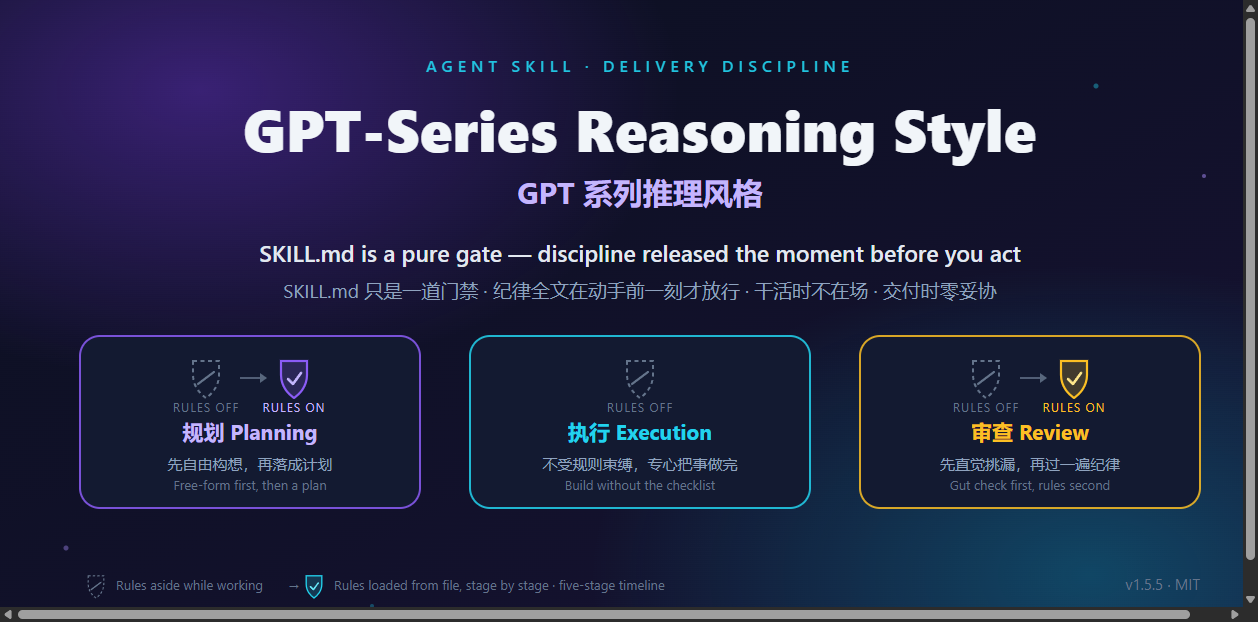
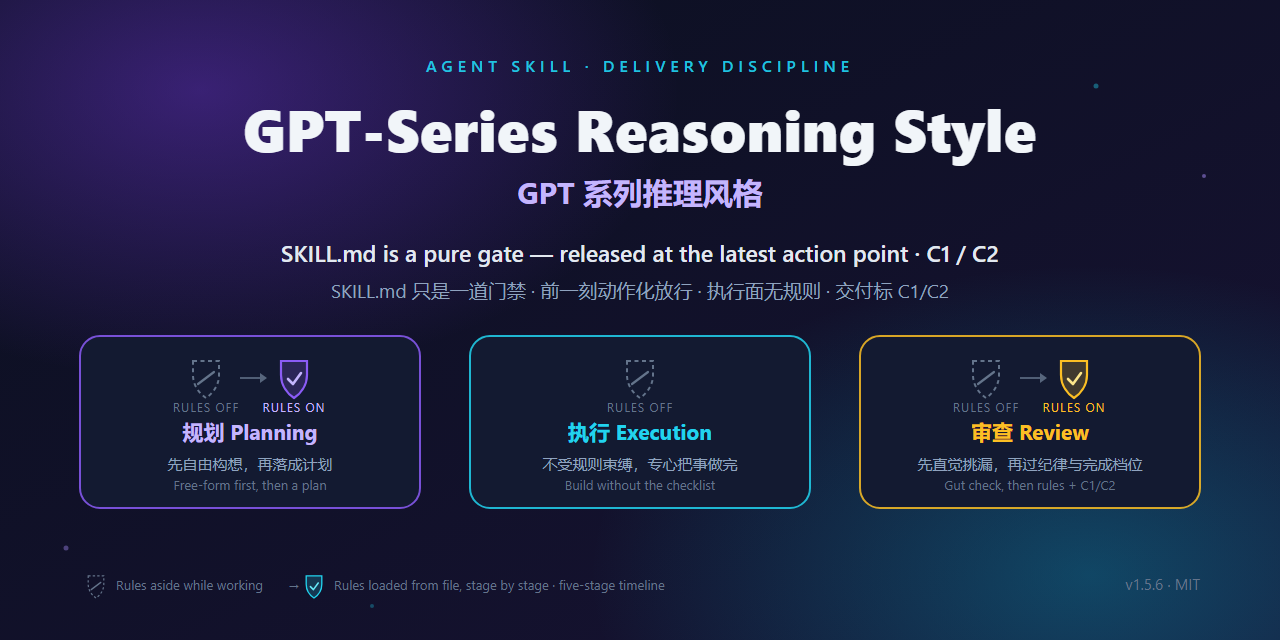
feat(v1.5.6): R123瘦三刀——门禁前一刻动作化+创意构想例外；DISCIPLINE阶段1禁读rules/阶段3双出口/完成档位C1C2；plan-rules A档不锁质量上限+创意打磨预算；review-rules第9条；selfcheck 38项；README/REFERENCE/social-preview同步1.5.6

diff --git a/scripts/selfcheck.py b/scripts/selfcheck.py
@@ -68,6 +68,9 @@ def main():
         check("SKILL.md 是纯门禁（引用 DISCIPLINE.md）", "DISCIPLINE.md" in text)
         check("门禁含前一刻语义", "前一刻" in text)
         check("门禁无流程内容泄漏（不含五阶段字样）", "五阶段" not in text)
+        check("门禁含动作化最晚点", "产线命令" in text or "施工级方案" in text)
+        check("门禁含创意构想例外", "方向构想" in text)
+        check("门禁禁提前读规则文件", "plan-rules" in text)
 
         # 4. 代码块配对
         fence_count = len(re.findall(r"^```", text, re.MULTILINE))
@@ -83,6 +86,9 @@ def main():
         check("DISCIPLINE 阶段2 指向 plan-rules.md", "plan-rules.md" in dtext)
         check("DISCIPLINE 阶段5 指向 review-rules.md", "review-rules.md" in dtext)
         check("DISCIPLINE 任务后遗忘规则", "彻底忘记" in dtext)
+        check("DISCIPLINE 含完成档位 C1/C2", "C1" in dtext and "C2" in dtext)
+        check("DISCIPLINE 阶段1 禁读规则", "不读" in dtext and "plan-rules" in dtext)
+        check("DISCIPLINE 阶段3 双出口", "完整路径" in dtext)
     else:
         check("DISCIPLINE 内容可读", False, "DISCIPLINE.md 不存在")
 
@@ -92,6 +98,14 @@ def main():
         for kw in ("真打开看一眼", "未验证标注", "交付声明对得上", "失败两次换路",
                    "全绿不算证据", "关键数字重算", "临时物隔离", "防死循环"):
             check(f"纪律：{kw}", kw in rtext)
+        check("review-rules 含第9条完成档位", "完成档位如实" in rtext)
+        check("review-rules C2 不可自封", "不得标 C2" in rtext or "禁止" in rtext and "C2" in rtext)
+
+    PLAN_MD = REPO_ROOT / "references" / "plan-rules.md"
+    if PLAN_MD.exists():
+        ptext = PLAN_MD.read_text(encoding="utf-8")
+        check("plan-rules A档不锁质量上限", "不锁定质量上限" in ptext)
+        check("plan-rules 创意质量预算", "质量预算" in ptext or "打磨" in ptext)
     else:
         check("纪律文件可读", False, "review-rules.md 不存在")
 

diff --git a/references/plan-rules.md b/references/plan-rules.md
@@ -9,13 +9,19 @@
   - 形态三·多智能体：命中任一就先跟用户确认——用户指名要多Agent、让另一个AI干、任务大到要分工、要不同模型各展所长。用户同意了再开，不同意就自己干。细则见 `references/multi-agent.md`。
   - 轻量档：只做方案不派发时，不建 `docs/` 治理文件、不写任务包。
 - **小且可逆的任务，指令即授权**，直接做、别请示——不用例行调研、不用确认档位。判定标准：①改的是**现有的**东西、单点修改，错了删掉即可；②交付结果不需要用户审美判定。**从零新建任何完整交付物**（页面/应用/游戏/网站/长报告）不算"小"——至少走A档确认；**好不好要用户说了算的创意交付物**（游戏/UI/视觉风格）不算"可逆"——先确认方向再动手。只有不可逆、对外发布、删东西才事前确认。
-- **按风险分级**：轻任务只做审查3条（真打开/未验证/防死循环）；数据/代码/**文档研究**/多Agent类重任务做全8条。
+- **按风险分级**：轻任务只做审查3条（真打开/未验证/防死循环）+ 第9条完成档位；数据/代码/**文档研究**/多Agent类重任务做全8条+第9条。
 - **动手前先调研**：任务里出现**你不认识的概念、名字或技术**（没听过的 IP、角色、术语、库名）——先问用户或搜索确认（自创/私有概念搜索查不到，直接问）——对陌生专名，搜索确认不足以替代用户确认（搜索证明世上有个梗，不等于你指的就是它），不要按想象编造设定。**确认自己理解了任务（陌生名字/概念）不属于请示——不理解就动手才是真正的错误。** 重任务另花**至多5分钟、3次搜索**查网上怎么做、有没有坑、有没有最佳实践——超了就带着已有信息继续，除非你不确定自己是否能带着已有信息做出完整判断。熟路直接做。
 - **最后确认档位**：跟用户确认方案时，**默认A档**（一次性把推荐方案列出来）。如果用户觉得方案太复杂、需要逐项讨论，他自然会说"我一个一个问你"——不需要你专门问"你要A还是B"。
   - A档（一次性确认）：推荐方案一次性列出来，用户同意就开干。
+    - **A档只锁定：做什么 / 不做什么 / 形态 / 硬约束 / 落盘路径。不锁定质量上限。**
+    - **确认后向上打磨**（手感、视觉、内容加深）**不必重新A档**；只有砍已确认范围、改方向/品类才回来确认。
   - B档（逐项问答）：用户主动要求时才用——一次只问一个最高影响问题，每题给2-3个实质方案+推荐+自由出口。
   - **询问类话语 ≠ 变更指令（通用判据）**：用户问“你一个人能完成吗？”“这样做行不行？”——先**回答能力与判断**，**不改变已确认的方案与形态**；回答附一句出口（“如果你希望我直接单人完成，说一声即可”）。只有用户**明确说改**（“改单人”“方案调整”），才变更已确认事项。
   - **确认必须走选项卡片**：从零新建交付物与重任务的方案确认，用结构化选项一次问完（方案 + 配置），**不许用文字问“这样可以吗”**——文字问的，用户的回复无法留证，不算确认。小且可逆的任务不受此限（指令即授权，直接做）。
+  - **创意交付物质量预算**（好不好要用户说了算的游戏/UI/视觉才适用）：
+    - 方向确认后默认预算：**最多 2 轮打磨，或只修「试玩/查看时当场暴露的最弱 1 项」**；禁止借打磨新开系统/玩法，除非用户新指令。
+    - 预算用完仍要抬档 → **用选项卡再问一次**（拉满 / 就此交付 / 你定），禁止无限自加料。
+    - 数据/代码/文档/修 bug/问答：**不适用**本条，不进打磨预算。
 
 ## 退出条件
 
@@ -23,4 +29,5 @@
 - 方案已经跟用户确认过了（A档用户同意了，或B档问答完了）。
 - 风险等级已经判断了（轻任务还是重任务）。
 - **形态已经裁定了（一行留痕在案：`形态裁定：形态一/二/三…`）**。
+- **质量预算已写明（若属创意交付物）**：一行 `质量预算：≤2轮 / 只修最弱1项 / 或待用户C2`；非创意类可不写。
 - 不需要再问用户任何问题了。

diff --git a/DISCIPLINE.md b/DISCIPLINE.md
@@ -6,11 +6,19 @@
 
 | 阶段 | 名称 | 做什么 | 退出条件 |
 |------|------|--------|----------|
-| 1 | 自由构想 | 不需要使用该skill | 在动手或回答之前退出该阶段 |
+| 1 | 自由构想 | **不读** `plan-rules` / `review-rules` / `multi-agent`，不建 `docs/` 治理文件，不把实现类 skill 的「先规划再建」当指令执行。只构想要做什么。 | 构想要点已列出，即将进入规划或实现之前退出。 |
 | 2 | 规则规划 | **去读 `references/plan-rules.md`**，按里面的规则做规划。 | 见 plan-rules.md 内的退出条件。 |
-| 3 | 执行 | 凭你的能力去做。 | 你觉得可以了，没有正在调试的bug或问题。 |
+| 3 | 执行 | 凭你的能力去做。 | ①没有正在调试的bug或问题；②创意/视觉类已做出**可真实打开/试玩的完整路径**（不是半截系统）。非创意类只需①。 |
 | 4 | 直觉检查 | 不需要使用该skill。发现疑点当场确认或修掉，不带进阶段5。 | 没有再发现新的疑点。 |
-| 5 | 纪律检查 | **去读 `references/review-rules.md`**，严格过一遍。 | 见 review-rules.md 内的退出条件。 |
+| 5 | 纪律检查 | **去读 `references/review-rules.md`**，严格过一遍。 | 见 review-rules.md 内的退出条件（含第9条完成档位）。 |
+
+## 完成档位（C1 / C2）
+
+- **C1 可验收**：阶段5诚信审查通过。交付文案必须标 `完成档位：C1`，并写清**产品档是否拉满**（未拉满时一句差在哪）。
+- **C2 产品满意**：仅创意/视觉类。只能来自**用户确认**（选项卡/明确说「行了」）或**外部 scorecard 达标**。**禁止 Agent 单方面宣布 C2**。
+- **测试全绿 + 证据齐 只支持 C1，单独不能升 C2。**
+- 形态二/三：**子任务默认 C1**；C2 只由主 Agent 对**最终交付物**向用户索取。
+- 本 skill 保证**交付真实**；**不单独定义**创意质量的「满意标准」。阶段5通过 ≠ 产品做好了。
 
 ## 任务结束后
 
@@ -20,4 +28,4 @@
 只改完成任务必须改的地方；发现会让交付物坏着交的问题顺手修掉，其余不碰。
 
 ## 加载
-本文件由 SKILL.md 的门禁在动手/回答的前一刻引导读取，读取后按本文件执行。阶段2才读 plan-rules.md，阶段5才读 review-rules.md。**形态三场景**：先按 multi-agent 六步建治理体系（docs/ai-members/ + docs/plans/ + 台账），再按阶段 2 推进。多智能体场景另读 multi-agent.md。
+本文件由 SKILL.md 的门禁在动手/回答的前一刻引导读取，读取后按本文件执行。阶段2才读 plan-rules.md，阶段5才读 review-rules.md。**形态三场景**：先按 multi-agent 六步建治理体系（docs/ai-members/ + docs/plans/ + 台账），再按阶段 2 推进。多智能体场景另读 multi-agent.md。实现类 skill 的代码/美术方法可在构想阶段参考，**其流程在 DISCIPLINE 被读取前不得当指令执行**。

diff --git a/AGENTS.md b/AGENTS.md
@@ -8,7 +8,7 @@ Runtimes that recognize `AGENTS.md` initialize as follows:
 
 1. 读取 `SKILL.md` 与 `VERSION`——**加载证明只需要这两个文件**。注意 `SKILL.md` 是一道**纯门禁**，本身不含纪律。
    Read `SKILL.md` and `VERSION` — **the loading proof requires only these two files**. Note `SKILL.md` is a **pure gate** and contains no discipline itself.
-2. 按门禁要求：**在你即将动手做事或回答用户的前一刻**，才读取 `DISCIPLINE.md`（五阶段流程全文在此文件，**不在** `SKILL.md`）；在那之前不要提前读取它。随后按 `DISCIPLINE.md` 的五阶段执行——规则文件**按阶段**读取：阶段2 读
+2. 按门禁要求：**在你即将动手做事或回答用户的前一刻**（写交付物 / 施工确认 / 产线命令 / 宣布交付，取最早），才读取 `DISCIPLINE.md`（五阶段流程全文在此文件，**不在** `SKILL.md`）；在那之前不要提前读取它。创意类可有一轮不读 DISCIPLINE 的方向构想；陌生专名仍先问/搜。随后按 `DISCIPLINE.md` 的五阶段执行——规则文件**按阶段**读取：阶段2 读
    `references/plan-rules.md`，阶段5 读 `references/review-rules.md`；叠加形态二三
    （子智能体 / 多智能体）时读 `references/multi-agent.md` 与 `templates/` 模板。
    Per the gate: only **the moment before you act or answer**, read `DISCIPLINE.md` (the five-stage flow lives here, **not** in `SKILL.md`); do not read it early. Then follow its five stages — rule files load **by stage**: read
@@ -18,7 +18,8 @@ Runtimes that recognize `AGENTS.md` initialize as follows:
 3. 被要求证明已加载时：输出版本号；说明**五阶段时序**（阶段1 自由构想 → 阶段2 规则规划 →
    阶段3 执行 → 阶段4 直觉检查 → 阶段5 纪律检查）；
    逐字引用纪律第 1 条「真打开看一眼：产物在真实环境打开、真用一遍，不许只看代码或心算就宣布完成。」；
-   说明协作形态（默认形态一；形态二有明显增益就自觉开；形态三命中后先与用户确认）；列出实际读过的文件。
+   说明协作形态（默认形态一；形态二有明显增益就自觉开；形态三命中后先与用户确认）；
+   提及完成档位（C1 可验收 / C2 产品满意，C2 须用户或外部认定）；列出实际读过的文件。
    When asked to prove loading: state the version; describe the five-stage sequence (stage-1 free ideation →
    stage-2 ruled planning → stage-3 execution → stage-4 intuition check → stage-5 discipline check); quote
    rule 1 verbatim ("真打开看一眼：产物在真实环境打开、真用一遍，不许只看代码或心算就宣布完成。"); state the

diff --git a/SKILL.md b/SKILL.md
@@ -1,7 +1,7 @@
 ---
 name: gpt-series-reasoning-style
-version: 1.5.5
-description: 交付验收与多智能体协作纪律。Use when 涉及数字验算、代码交付、多Agent协作、需要防假完成的任务；or when user says "做完了帮我查/看看对不对/验收"、派发子任务或多个AI分工。小改/一句话问答不加载。
+version: 1.5.6
+description: 交付验收与多智能体协作纪律（防假完成）。Use when 涉及数字验算、代码交付、多Agent协作、需要防假完成的任务；or when user says "做完了帮我查/看看对不对/验收"、派发子任务或多个AI分工。约束交付是否真实，不单独设定创意质量满意标准（见 DISCIPLINE 完成档位 C1/C2）。小改/一句话问答不加载。
 license: MIT
 compatibility: "Works with any model or client supporting the Agent Skills SKILL.md convention (Claude Code, Codex, Cursor, etc.)."
 metadata:
@@ -10,7 +10,11 @@ metadata:
 
 # 强制门禁
 
-本文件不含交付纪律。**纪律全文在 `DISCIPLINE.md`**——它只能在**你即将动手做事或回答用户的前一刻**被读取：
+本文件不含交付纪律。**纪律全文在 `DISCIPLINE.md`**——它只能在**你即将动手做事或回答用户的前一刻**被读取。
 
-- 在那之前，**禁止读取** `DISCIPLINE.md`，禁止凭记忆引用它的任何内容，禁止提前预览任何流程。
+**「前一刻」= 下列动作里最早发生的那个之前**：①创建/修改交付物相关文件（含脚手架）；②输出施工级方案并要用户确认；③跑构建/测试等产线命令；④以「做完了」口径声称交付。
+
+创意/视觉类：在上述动作之前，允许一轮**不读** DISCIPLINE 的方向构想；**任务里有你不认识的专名/概念时，仍须先问用户或搜索**（此时不读 DISCIPLINE，但要完成确认）。
+
+- 在前一刻之前，**禁止读取** `DISCIPLINE.md`，禁止凭记忆引用它的任何内容，禁止提前预览任何流程；禁止读取 `plan-rules.md` / `review-rules.md` / `multi-agent.md`。
 - 到了前一刻，读取 `DISCIPLINE.md`，然后**严格按其中内容执行任务**。

diff --git a/references/review-rules.md b/references/review-rules.md
@@ -2,7 +2,7 @@
 
 ## 规则
 
-严格过这8条。轻任务只做标★的3条。
+严格过这8条；**第9条（完成档位）全类型都要过**。轻任务第1–8条只做标★的3条，第9条仍要做。
 
 1. ★ **真打开看一眼**：产物在真实环境打开、真用一遍，不许只看代码或心算就宣布完成。
    - HTML要在浏览器里渲染，API要用前端调，文档要在阅读器里打开。跑脚本不算真打开。
@@ -27,9 +27,17 @@
 7. **临时物隔离**：运行时临时文件不进交付目录、收尾清掉；清理只动本任务自己的目录，禁全局杀进程。
 8. ★ **防死循环**：同一文件连续读3次无新信息就停；同一动作连续做3次输出相同就换思路，别在原地空转耗token。
 
+9. **完成档位如实（全类型）**
+   - 交付首行标明 `完成档位：C1` 或 `C2`（定义见 DISCIPLINE.md）。
+   - **C1**：必须附「产品档：未拉满 / 已拉满（用户已确认）」——未拉满时写**一句差在哪**。
+   - **C2**：必须附用户确认原话/选项卡结果，或外部 scorecard 结果；**没有这些不得标 C2**。
+   - **测试全绿、证据清单齐全、变异红过再绿——只证明没假完成，只支持 C1，单独不能升 C2。**
+   - 禁止用「风格已确认」「手感已调好」等主观句冒充 C2；未验证标注规则（第2条）优先。
+
 ## 退出条件
 
 审查完成，可以交付、任务结束。满足以下全部：
-- 该风险等级对应的所有规则都过了一遍（轻任务3条/重任务8条）。
+- 该风险等级对应的所有规则都过了一遍（轻任务：★3条 + 第9条；重任务：全8条 + 第9条）。
 - 能说出三件套：做了什么 / 怎么验的（给可复现命令）/ 哪些没验。
+- **完成档位已标明（C1/C2），且 C1/C2 证据符合第9条。**
 - 没有发现未处理的"这里好像有问题"。

diff --git a/CHANGELOG.md b/CHANGELOG.md
@@ -4,6 +4,21 @@
 
 ## [Unreleased]
 
+## [1.5.6] - 2026-09-18
+
+### Changed
+- **门禁「前一刻」操作化**（R3）：加载点 = 写交付物 / 施工确认 / 产线命令 / 宣布交付 中最早者；创意类允许动作前一轮不读 DISCIPLINE 的方向构想；陌生专名仍须先问/搜。禁止提前读 plan/review/multi-agent。
+- **DISCIPLINE 阶段1**：明确禁止读规则文件与建治理目录；阶段3创意类双出口（可打开完整路径）；阶段5指向完成档位。
+- **plan-rules**（R2）：A档只锁范围/路径/品类/形态，**不锁定质量上限**；向上打磨免重新 A 档；创意质量预算默认 ≤2 轮或只修最弱 1 项，超预算回选项卡；退出条件增加质量预算留痕。
+- **review-rules**（R1）：新增第 9 条完成档位（C1/C2），全类型必过；测试全绿只支持 C1；C2 禁止 Agent 自封。
+- selfcheck 增补 1.5.6 关键词检查（前一刻 / 动作清单 / C1/C2 / 质量预算 / 阶段1禁读）。
+
+### Notes
+- 诚信地板（审查 1–8 条主干、真打开、UNVERIFIED）不变；本版抬的是完成定义与创意进场时机，不是加硬指标。
+- 大版本（≥1.6）须总指挥主动提起后才议。
+
+## [Unreleased-archived]
+
 ### Changed
 - 形态二触发由「命中任一就开」改为「命中任一，评估后开」，修正与「一个人能连贯干完不开二」的内在矛盾（4399 实证：命中 ≠ 该开）。
 - README / REFERENCE 全面同步门禁化架构（路由、加载路径、成本、仓库结构、加载证明）。
